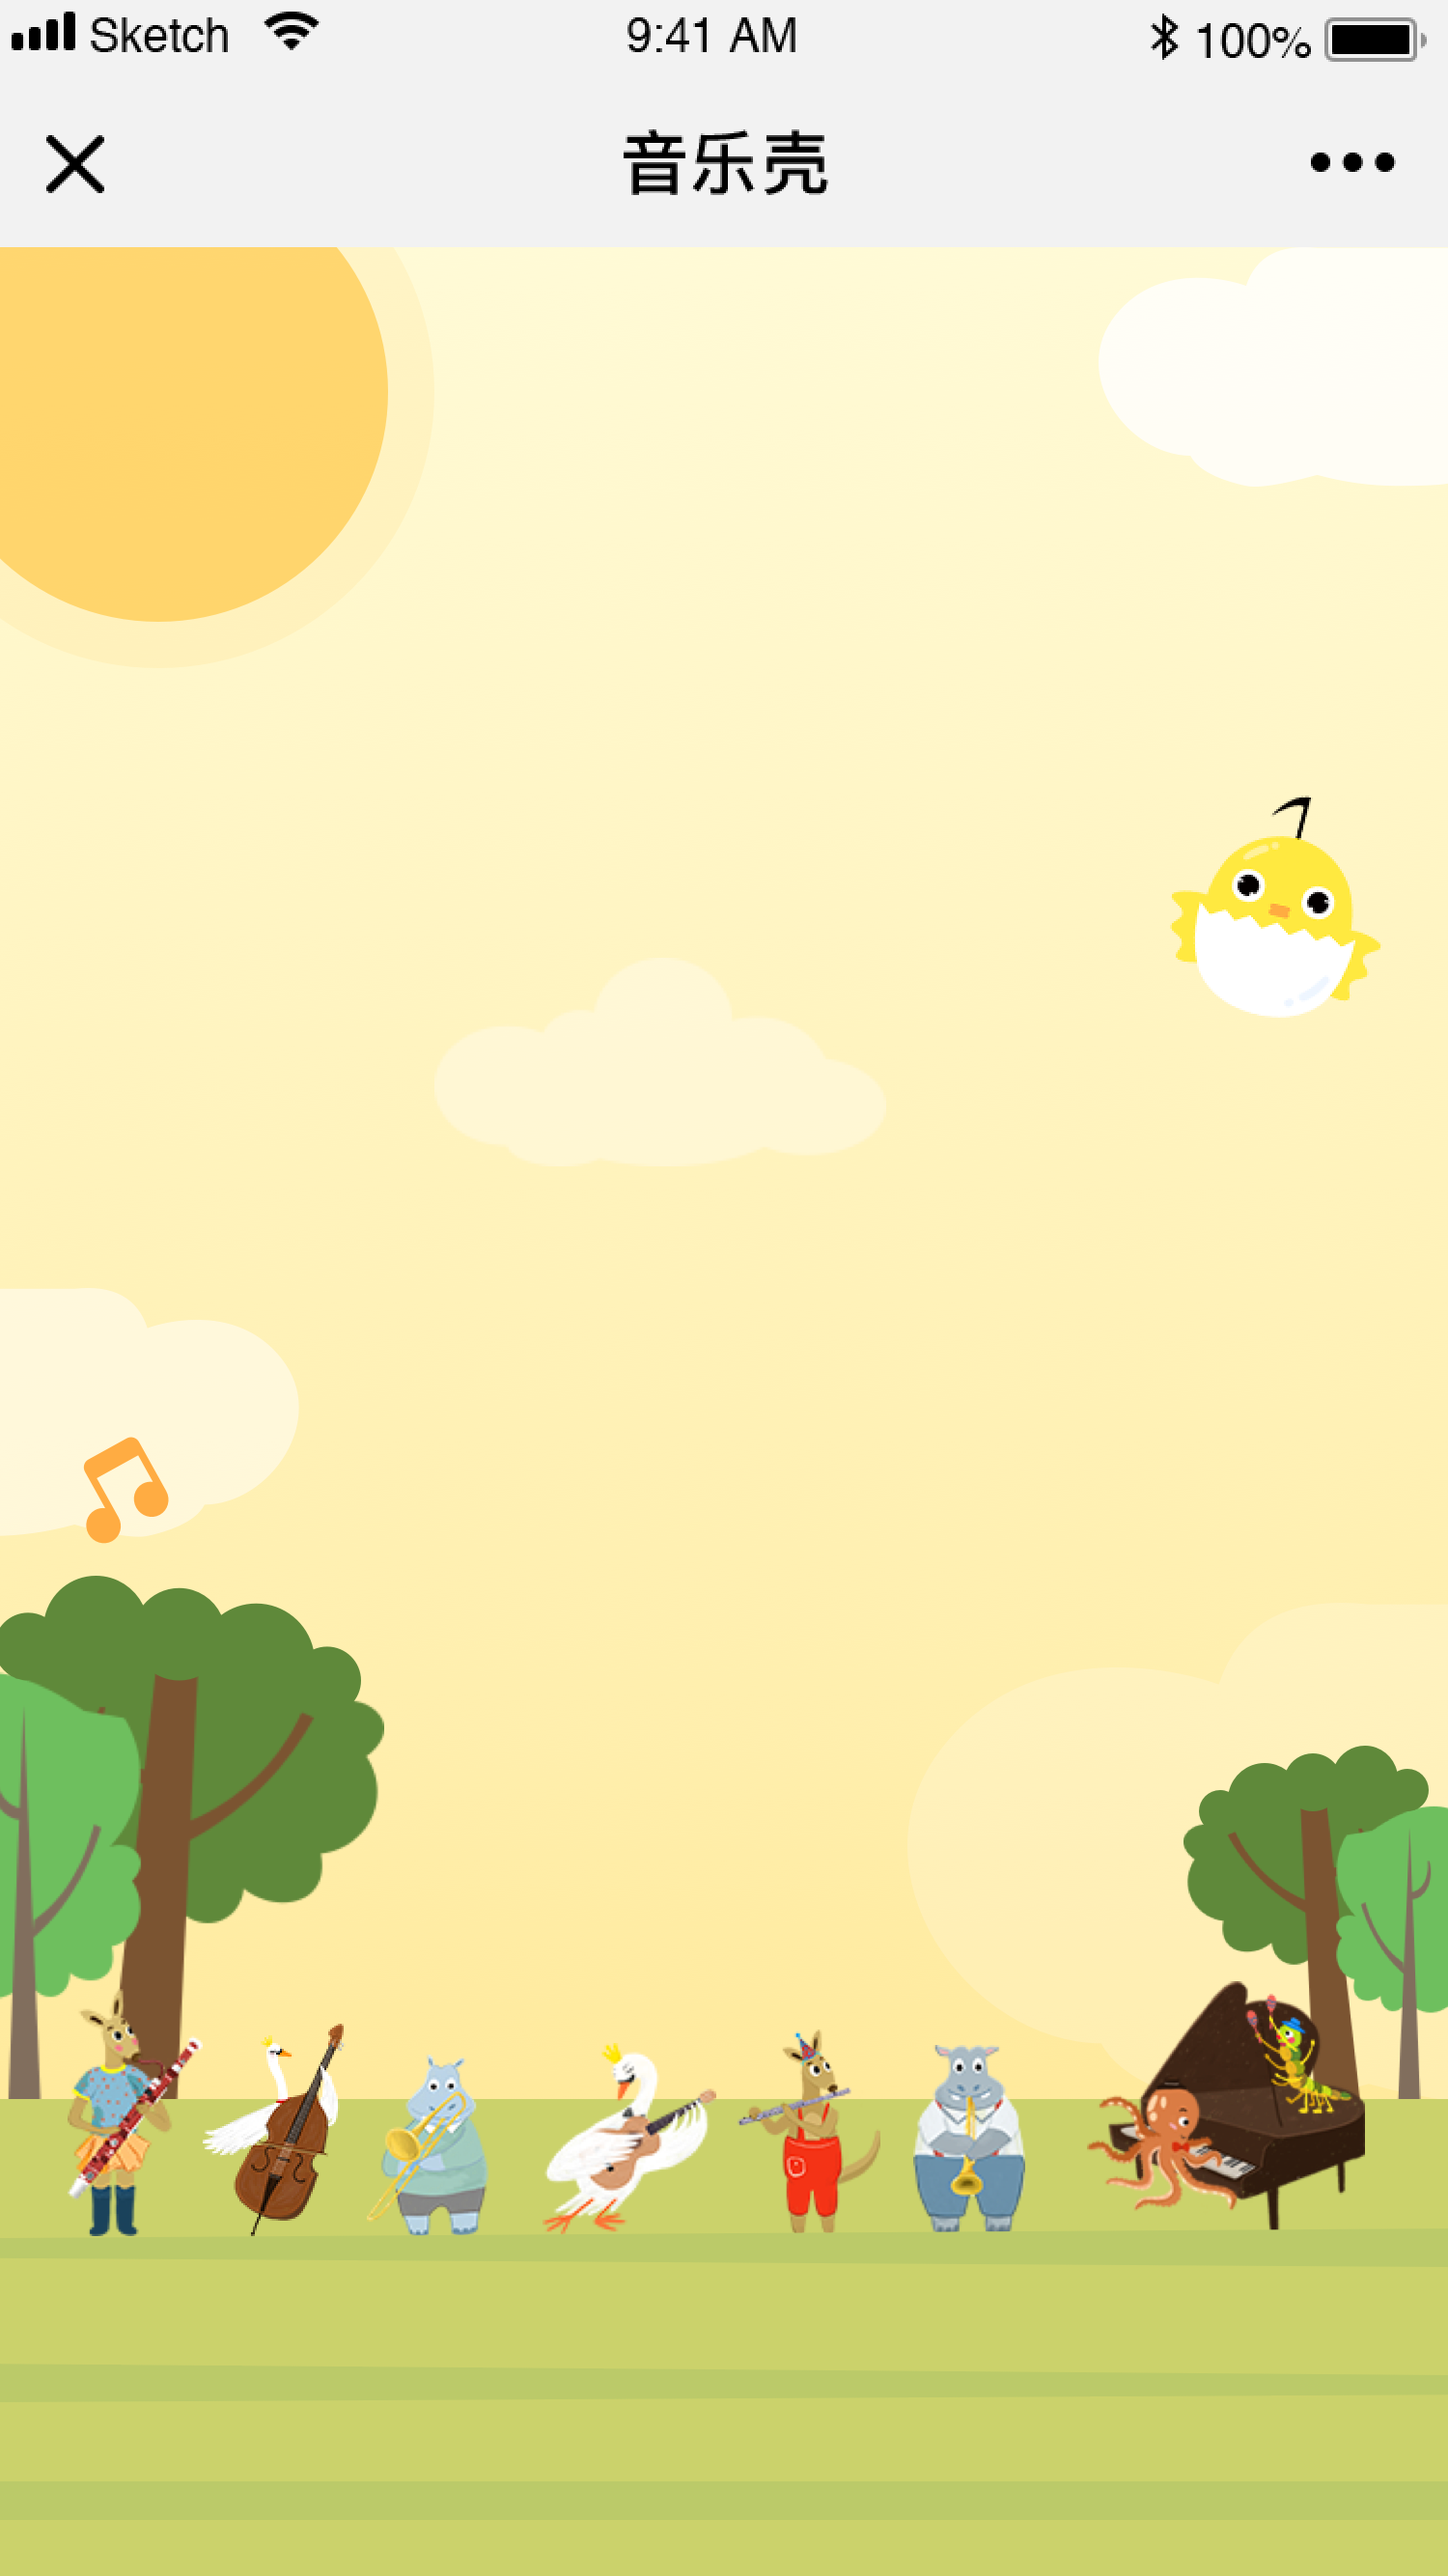
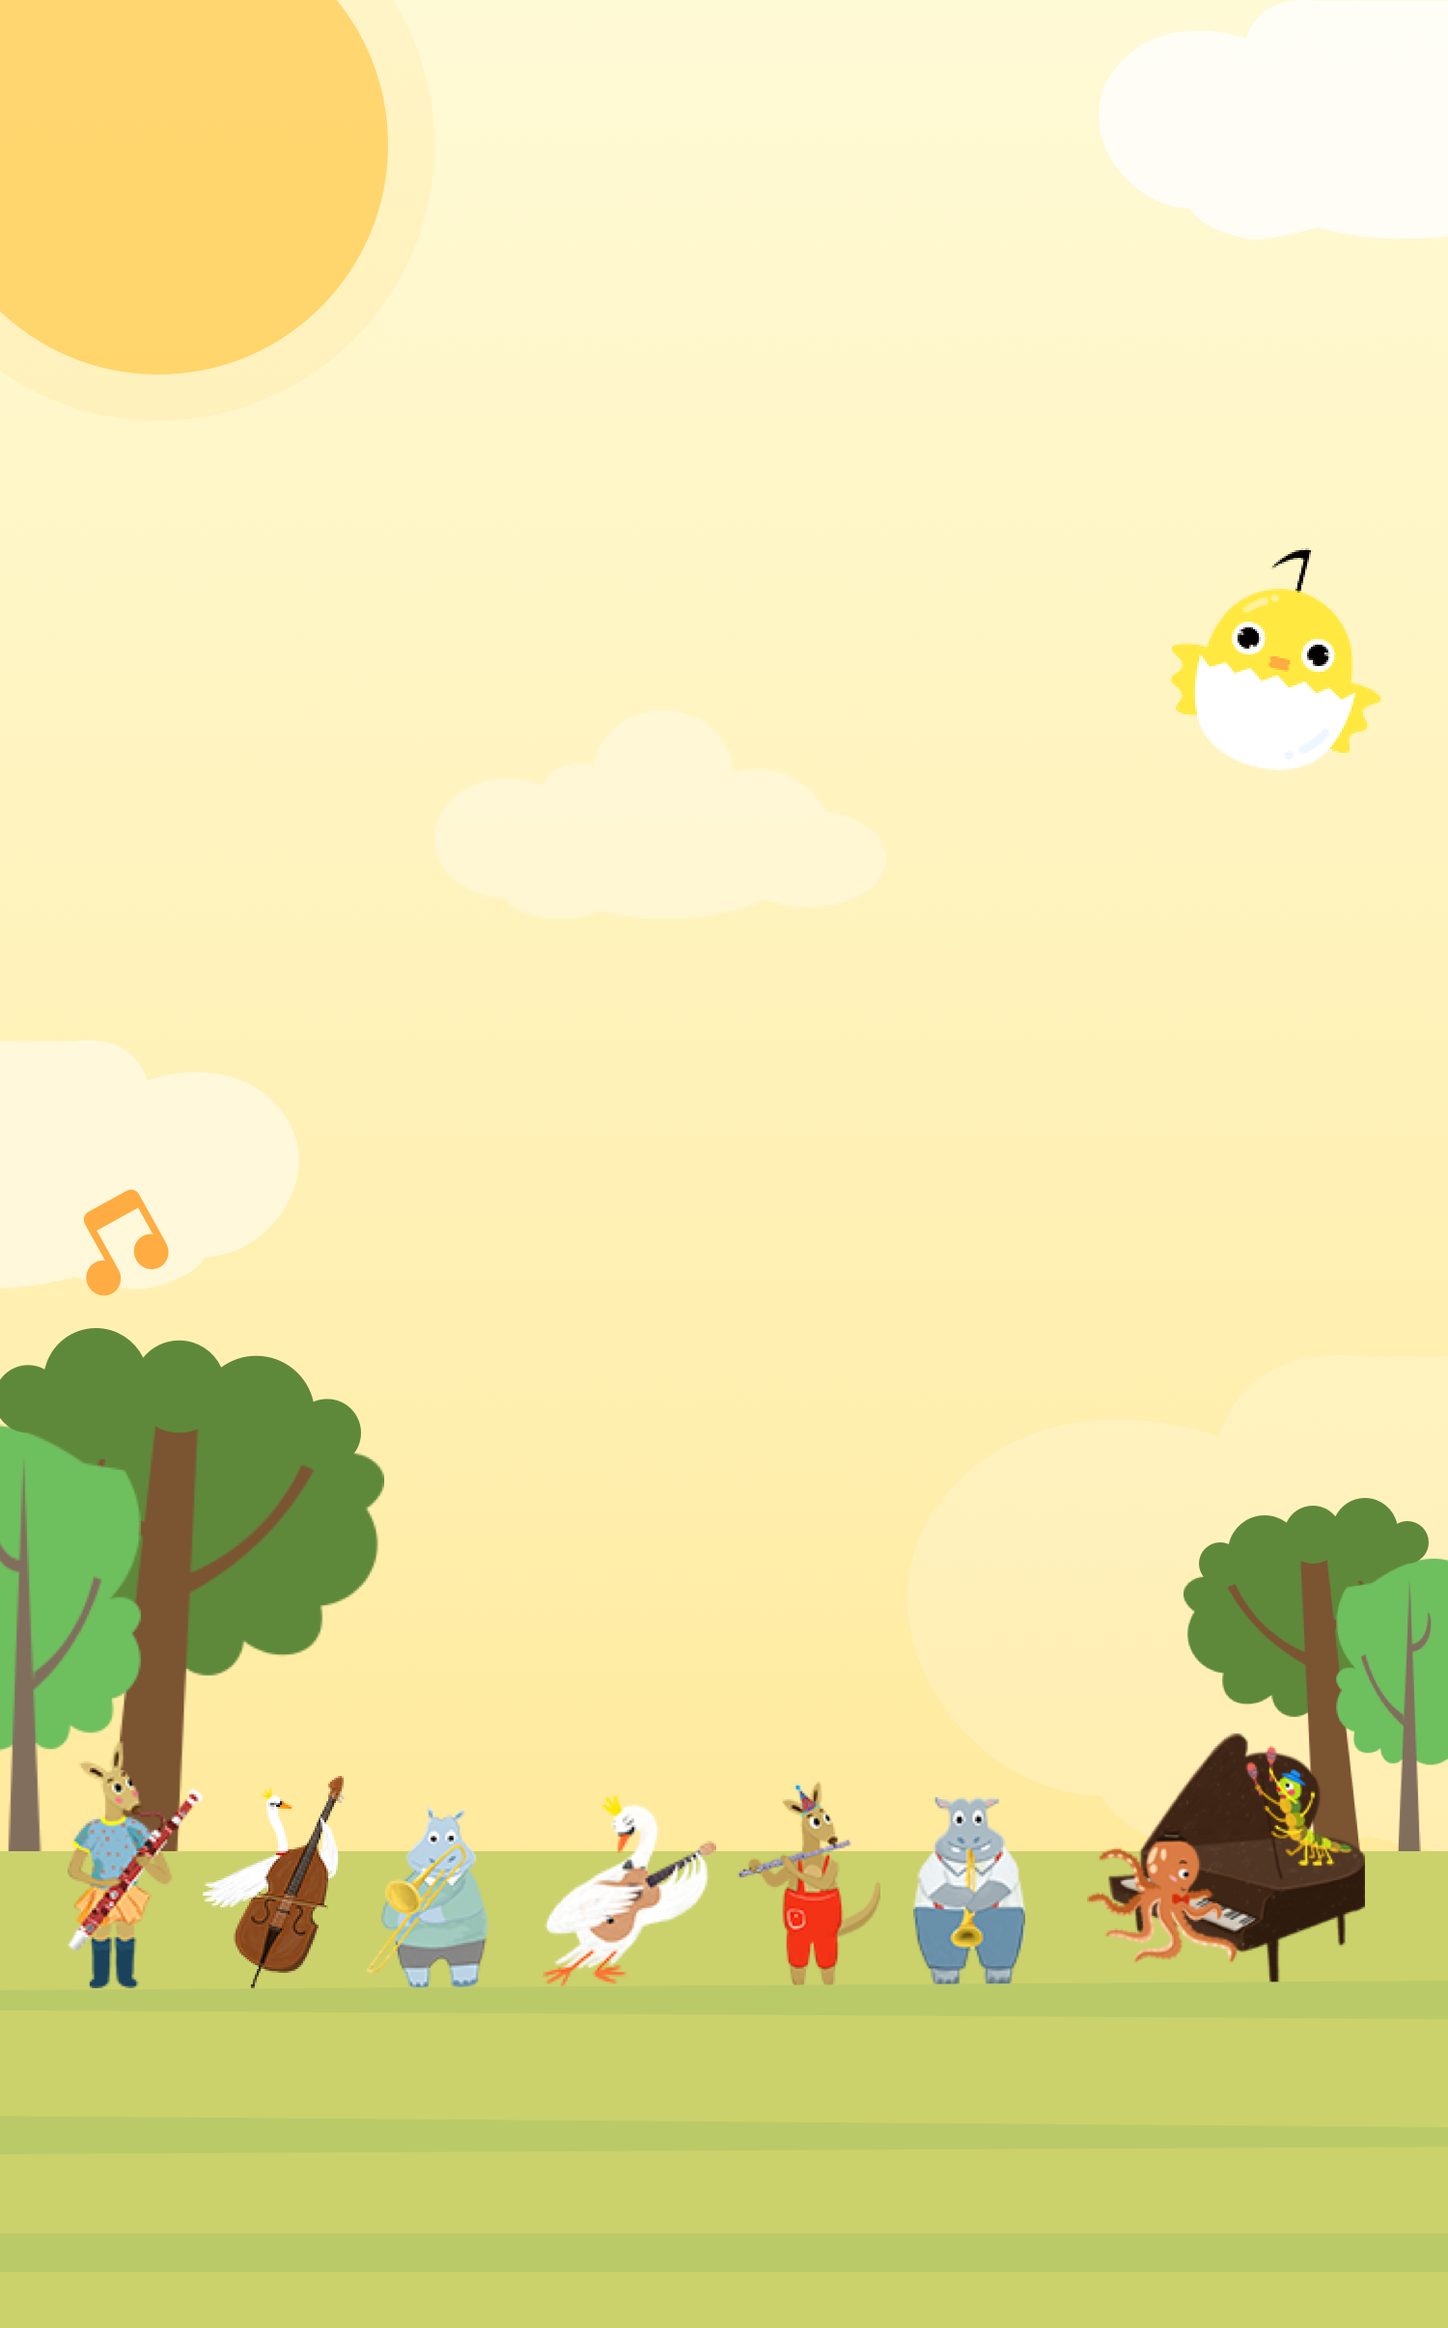
实物教材和乐器游戏

diff --git a/yinyueke-h5/src/modules/shareAc413/src/address.vue b/yinyueke-h5/src/modules/shareAc413/src/address.vue
@@ -1,7 +1,10 @@
 <template>
   <div class="page">
+    <img src="../../../assets/img/shareAc413/bg.png" alt="" class="bg">
     <div class="wrapper">
+      
       <div class="book">
+        <img src="../../../assets/img/shareAc413/title.png" alt="" class="page_title">
         <div class="book_name">《器乐王国之旅》</div>
         <div>课程及精美教材</div>
       </div>
@@ -26,7 +29,7 @@
         </div>
         <div class="input_wrapper textarea">
           <div class="label">收货地址：</div>
-          <textarea v-model="form.address" placeholder="请填写您的收货地址"></textarea>
+          <textarea v-model="form.address" placeholder="请填写您的收货详细地址"></textarea>
         </div>
         <div @click="submit" class="reg_btn">点击提交</div>
       </div>
@@ -106,6 +109,17 @@ export default {
           window.scrollTo(0, 0);
         });
       });
+      var textAreaArr = document.querySelectorAll("textarea");
+      textAreaArr.forEach(function(ele) {
+        let scrollTop;
+        ele.addEventListener("focus", function() {
+          scrollTop = document.body.scrollTop;
+        });
+        ele.addEventListener("blur", function() {
+          //document.body.scrollTop = scrollTop;
+          window.scrollTo(0, 0);
+        });
+      });
     },
     submit() {
       this.form.code = this.wxCode;
@@ -139,23 +153,29 @@ export default {
 </script>
 <style lang="less">
 @import url("./../../../common/common.less");
+body{
+  background-color: #CBD26B;
+}
 .page {
   width: 100%;
   min-height: 100vh;
   position: relative;
-  padding: 0 30px;
-  background: url("../../../assets/img/shareAc413/bg.png") no-repeat top
-    center/100%;
+  padding-bottom: 30px;
+  // background: url("../../../assets/img/shareAc413/bg.png") no-repeat top
+  //   center/100%;
 
-  background-color: #fff8df;
+  //background-color: #CBD26B;
+  img.bg{
+    width: 100%;
+  }
 }
 .wrapper {
   position: absolute;
   left: 0;
-  top: 22%;
+  top: 5%;
   //top: 220px;
   @media screen and (min-width: 768px) and (max-width: 1024px) {
-    top: 26%;
+    top: 6%;
   }
   width: 100%;
   padding: 0 30px;
@@ -166,6 +186,12 @@ export default {
     font-family: PingFang SC;
     font-weight: 600;
     color: rgba(203, 121, 11, 1);
+    .page_title{
+      display: block;
+      margin: auto;
+      margin-bottom: 16px;
+      width: 244px;
+    }
     .book_name {
       font-family: PingFangSC-Semibold;
       font-size: 36px;
@@ -260,8 +286,9 @@ export default {
     height: 44px;
     margin-left: auto;
     margin-right: auto;
-    background: rgba(255, 116, 43, 0.7);
-    border-radius: 25px;
+    background:rgba(255,104,49,1);
+
+    border-radius: 22px;
     font-size: 18px;
     font-family: PingFangSC-Semibold, PingFang SC;
     font-weight: 600;

diff --git a/origin/item.html b/origin/item.html
@@ -1217,6 +1217,19 @@
                     <li><i class="icon-hock"></i>强乐音识别系统保障效果</li>
                     <li><i class="icon-hock"></i>游戏化互动界面边玩边学</li>
                     <li><i class="icon-hock"></i>循序渐进课程设置更合理</li>`) 
+            }if (source == 70) {
+                //从零基础入门到登台演出
+                $(".service-inner .service-ir-l").html(
+                    `<li><i class="icon-hock"></i>必修选修亲子课全部解锁</li>
+                    <li><i class="icon-hock"></i>弹唱指弹乐理声乐全涵盖</li>
+                    <li><i class="icon-hock"></i>智能推荐练习题因材施教</li>
+                    <li><i class="icon-hock"></i>大师级教学体系快速入门</li>`);
+
+                $(".service-inner .service-ir-r").html(
+                    `<li><i class="icon-hock"></i>会员有效期买一年送九年(初级课除外)</li>
+                    <li><i class="icon-hock"></i>强乐音识别系统保障效果</li>
+                    <li><i class="icon-hock"></i>游戏化互动界面边玩边学</li>
+                    <li><i class="icon-hock"></i>循序渐进课程设置更合理</li>`) 
             }
             $("header i").countUp();
         });

diff --git a/manageSystem/yinji_admin/src/assets/instrucmentList.js b/manageSystem/yinji_admin/src/assets/instrucmentList.js
@@ -48,5 +48,5 @@ export default {
     '二胡': 'erhu',
     '琵琶': 'pipa',
     '古筝': 'guzheng',
-    '箫':'xiao'
+    '笛子':'dizi'
 }
